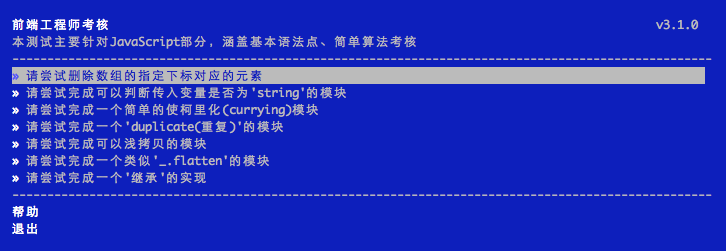
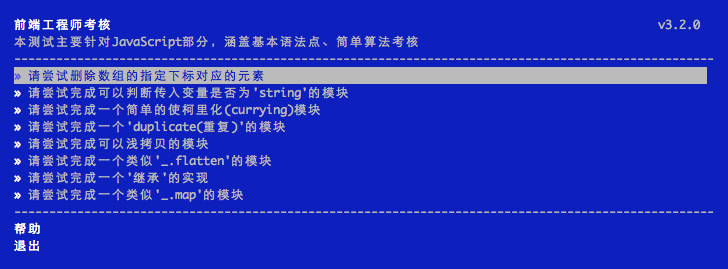
fix word issue and add new map question

Changed region(s): [[0.0, 0.0558, 0.9697, 0.9482], [0.8788, 0.0558, 0.9697, 0.1394]]

diff --git a/bin/questions/map/Test.js b/bin/questions/map/Test.js
@@ -1,0 +1,35 @@
+'use strict';
+
+var assert = require('assert');
+
+describe('_.map', function() {
+
+    var path = require('path');
+    var map = require(path.resolve(process.cwd(), 'map', 'index'));
+
+    it('basic test', function() {
+        var test = [1, 2, 3];
+        var actual = map(test, function(i) {
+            return i + 1;
+        });
+        assert.deepEqual(actual, [2, 3, 4], '基本测试用例失败');
+    });
+
+    it('test context', function() {
+        var test = [
+            {
+                city: 'Shanghai',
+                population: 25000000
+            },
+            {
+                city: 'Beijing',
+                population: 30000000
+            }
+        ];
+        var actual = map(test, function(i) {
+            return i.population / this;
+        }, 10);
+        assert.deepEqual(actual, [2500000, 3000000], '上下文环境基本测试失败');
+    });
+
+});

diff --git a/bin/questions/map/Task.js b/bin/questions/map/Task.js
@@ -1,0 +1,20 @@
+'use strict';
+
+var Base = require('../../libs/Base');
+
+var Question = Base.extend({
+    id: 'map',
+    name: '请尝试完成一个类似\'_.map\'的模块',
+    position: 8,
+    prepare: function() {
+        var path = require('path');
+        var index = path.resolve(process.cwd(), this.id, 'index.js');
+        if (this.fileExist(index)) {
+            return;
+        }
+        this.copyFile(path.resolve(__dirname, 'index.js'), index);
+    }
+});
+
+
+module.exports = Question;

diff --git a/bin/questions/map/index.js b/bin/questions/map/index.js
@@ -1,0 +1,16 @@
+'use strict';
+
+/**
+ *
+ *  尝试完成如下功能：
+ *
+ *  map([1, 2], function(i){ return i * 2;} )                                                    = [2, 4]
+ *  map([{name: 'nanfeng', age: 25}, {name: 'beifang', age: 33}], function(i){ return i.age;  }) = [25, 33]
+ *  map([5, 7], function(i){ return this + i; }, 2)                                              = [7, 9]
+ *
+ **/
+var map = function(arr, func, ctx) {
+    //在这里实现
+};
+
+module.exports = map;

diff --git a/bin/questions/shallowCopy/index.js b/bin/questions/shallowCopy/index.js
@@ -3,7 +3,7 @@
 /**
  *
  *  尝试完成如下功能：
- *  
+ *
  *  shallowCopy([1, 2, 3])                      = [1, 2, 3]
  *  shallowCopy({ name: 'hello', value: 23 })   = { name: 'hello', value: 23 }
  *
@@ -14,6 +14,8 @@
  *
  *
  **/
-var shallowCopy = function(value) {};
+var shallowCopy = function(value) {
+    //在这里实现
+};
 
 module.exports = shallowCopy;

diff --git a/bin/questions/isString/index.js b/bin/questions/isString/index.js
@@ -3,7 +3,7 @@
 /**
  *
  *  尝试完成如下功能：
- *  
+ *
  *  isString('hello')              = true
  *  isString(123)                  = false
  *  isString(undefined)            = false
@@ -12,6 +12,8 @@
  *
  *
  **/
-var isString = function(value) {};
+var isString = function(value) {
+    //在这里实现
+};
 
 module.exports = isString;

diff --git a/bin/questions/duplicate/index.js b/bin/questions/duplicate/index.js
@@ -3,10 +3,12 @@
 /**
  *
  *  输入： array，例如: [1, 2, 3, 4]
- * 
+ *
  *  输出：一个重复后的array，例如：[1, 2, 3 , 4, 1, 2, 3 ,4]
  *
  **/
-var duplicate = function(array) {};
+var duplicate = function(array) {
+    //在这里实现
+};
 
 module.exports = duplicate;

diff --git a/bin/questions/currying/index.js b/bin/questions/currying/index.js
@@ -3,7 +3,7 @@
 /**
  *
  *  该模块必须完成以下功能：
- *  
+ *
  *  var currying = require('currying');
  *
  *  var add = function(a, b) {
@@ -15,7 +15,7 @@
  *
  **/
 var currying = function(func) {
-
+    //在这里实现
 };
 
 module.exports = currying;

diff --git a/bin/questions/flatten/index.js b/bin/questions/flatten/index.js
@@ -3,12 +3,12 @@
 /**
  *
  *  输入： array，例如: [1, [2, [3 ,4], 5], 6]
- * 
+ *
  *  输出：一个扁平化后的array，例如：[1, 2, 3 ,4, 5, 6]
  *
  **/
 var flatten = function(array) {
-
+    //在这里实现
 };
 
 module.exports = flatten;

diff --git a/bin/questions/inherit/Son.js b/bin/questions/inherit/Son.js
@@ -10,7 +10,7 @@
 var Parent = require('./Parent');
 
 var Son = function(parentName) {
-
+    //在这里实现
 };
 
 module.exports = Son;
